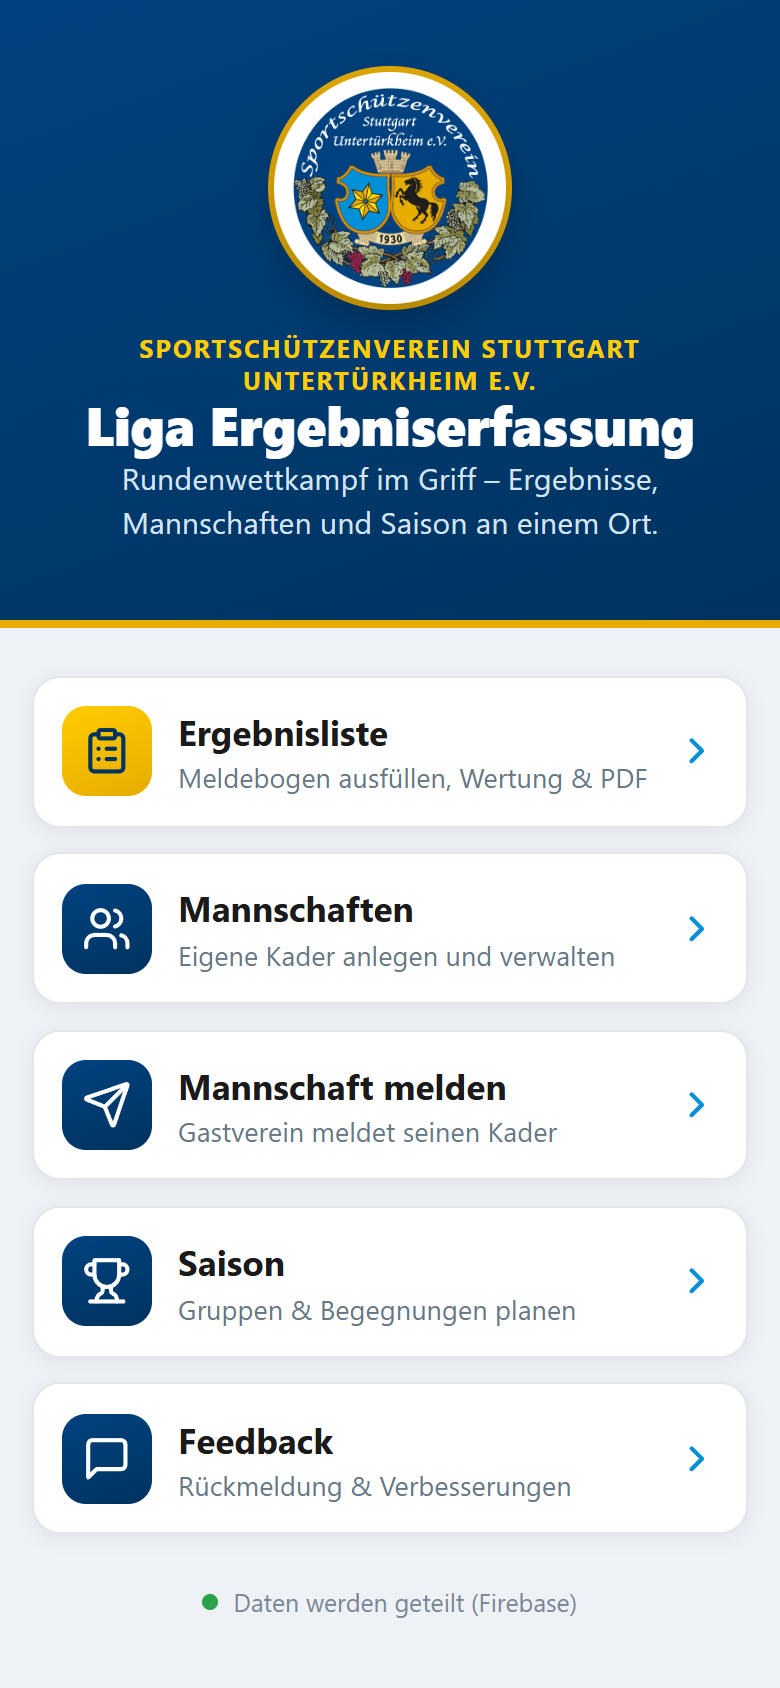
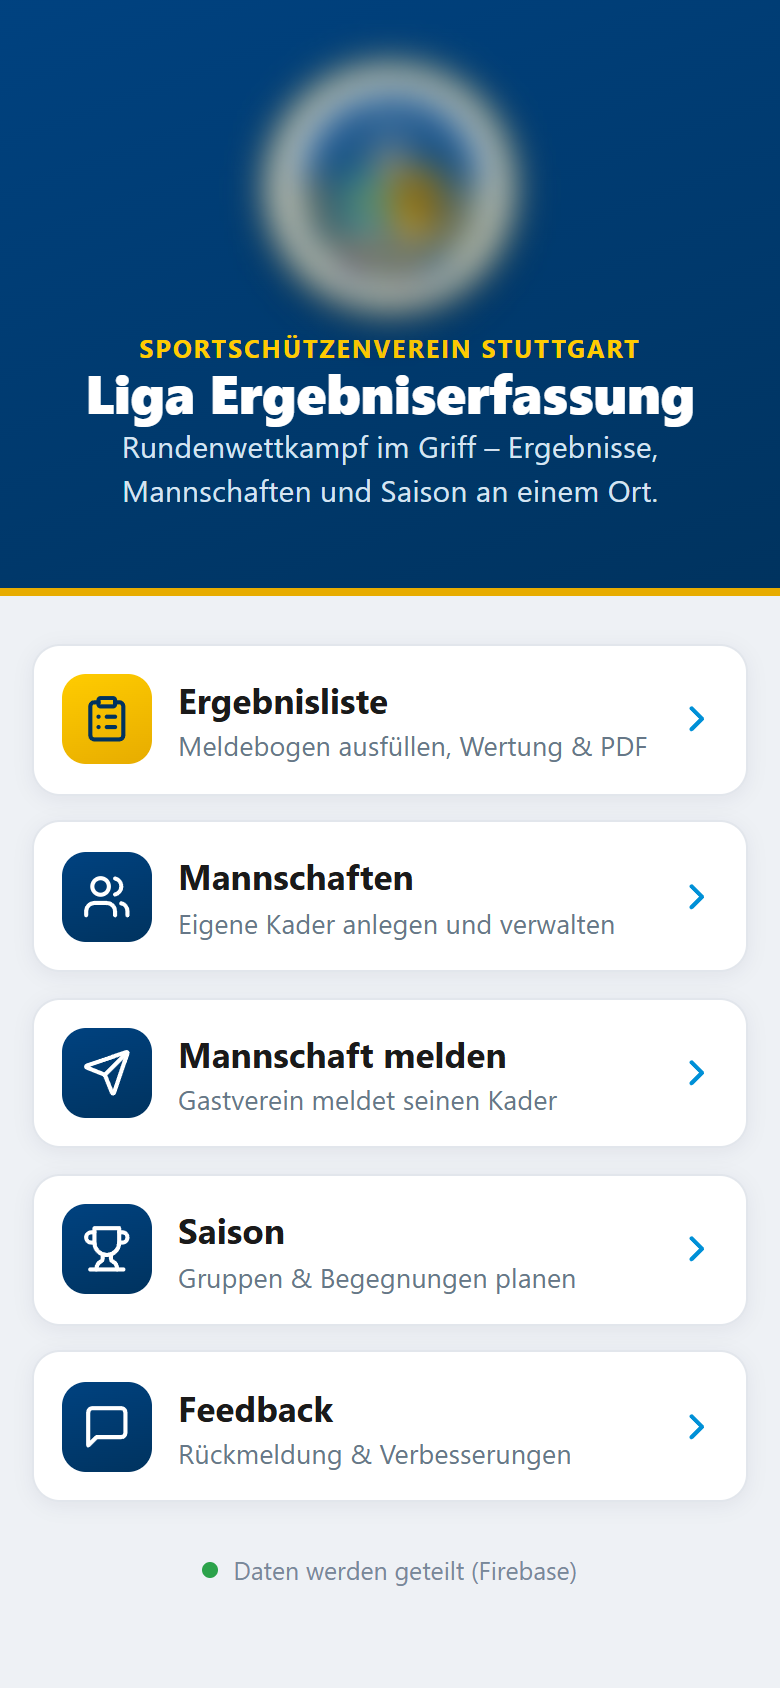
Schützenverein ohne Ortsteil, Wappen in Screenshots unkenntlich

Changed region(s): [[0.0, 0.0, 1.0, 0.8934], [0.2462, 0.9242, 0.7385, 0.955], [0.8923, 0.4005, 0.9231, 0.4313]]

diff --git a/src/data/projects.ts b/src/data/projects.ts
@@ -72,7 +72,7 @@ export const projects: Project[] = [
   },
   {
     slug: 'schuetzen-apps',
-    client: 'Sportschützenverein Stuttgart-Untertürkheim',
+    client: 'Sportschützenverein aus Stuttgart',
     kind: 'Zwei Web-Apps',
     year: '2026',
     place: 'Stuttgart',
